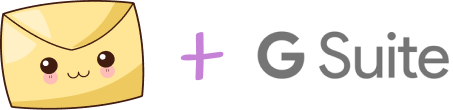
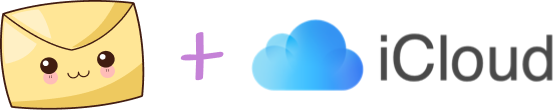
GitBook: [main] 13 pages and 12 assets modified

diff --git a/guides/connecting-gmail.md b/guides/connecting-gmail.md
@@ -12,7 +12,7 @@ description: >-
 
 To scan your mailbox for emails, you need to enable IMAP for your Gmail account.
 
-1. Go to your Gmail settings [**Forwarding and POP/IMAP**](https://mail.google.com/mail/#settings/fwdandpop) tab.
+1. Go to your Gmail settings [Forwarding and POP/IMAP](https://mail.google.com/mail/#settings/fwdandpop) tab.
 2. In the "IMAP access" section, select **Enable IMAP**.
 3. Click **Save Changes** \(don't forget this step ⚠\).
 
@@ -38,9 +38,15 @@ If you don't have 2-Step Verification enabled then the next step won't work!
 4. Enter "**Leave Me Alone**" and choose **GENERATE**.
 5. **Copy the App Password** \(the 16-character code in the yellow bar on your device\) - don't forget this bit ⚠.
 
+{% hint style="info" %}
+Don't forget to copy your app password after you click **Generate**!
+{% endhint %}
+
 ![](../.gitbook/assets/3-app-password.gif)
 
-You can now connect your Gmail to [Leave Me Alone](https://leavemealone.app) using your email address and the App Password you just generated.
+All done!
+
+You can now connect your Gmail to [Leave Me Alone](https://leavemealone.app/) using your email address and the App Password you just generated.
 
 ## Troubleshooting
 
@@ -49,4 +55,8 @@ You can now connect your Gmail to [Leave Me Alone](https://leavemealone.app) usi
 You must [enable 2-step verification](connecting-gmail.md#step-2-turn-on-2-step-verification) for this setting to be available for your Google account.
 
 ![](../.gitbook/assets/setting-not-found.png)
+
+### Still need help?
+
+Submit a request [here](https://leavemealone.app/feedback) or email us at [support@leavemealone.app](mailto:support@leavemealone.app).
 

diff --git a/guides/connecting-other-imap.md b/guides/connecting-other-imap.md
@@ -1,2 +1,35 @@
+---
+description: >-
+  Step-by-step guide for connecting any email account to Leave Me Alone. Takes
+  1-2 minutes to complete.
+---
+
 # Connecting any email account with IMAP
+
+![](../.gitbook/assets/lma+anything.png)
+
+## Step 1: Find your IMAP details
+
+To connect your account to Leave Me Alone you will need the host and port for your mail provider's IMAP server.
+
+You can usually find this by searching Google for "**&lt;your email account&gt; IMAP settings**".
+
+## Step 2: Connect your account
+
+1. Enter your email address and wait for us to select your account type \(or you can click the dropdown on the right of the field to change the account type\)
+2. Enter your password \(this is usually the password you use to sign in\)
+3. Enter the IMAP host and port you found in [Step 1](connecting-other-imap.md#step-1-find-your-imap-details)
+4. Click **Connect account**
+
+![](../.gitbook/assets/1-connect.gif)
+
+All done!
+
+You can now connect your any email account that supports IMAP to [Leave Me Alone](https://leavemealone.app/) using this method.
+
+## Troubleshooting
+
+### Still need help?
+
+Submit a request [here](https://leavemealone.app/feedback) or email us at [support@leavemealone.app](mailto:support@leavemealone.app).
 

diff --git a/guides/connecting-yahoo-mail.md b/guides/connecting-yahoo-mail.md
@@ -1,0 +1,34 @@
+---
+description: >-
+  Step-by-step guide for connecting your Yahoo Mail account to Leave Me Alone.
+  Takes 1 minute to complete.
+---
+
+# Connecting a Yahoo Mail account
+
+![](../.gitbook/assets/image%20%282%29.png)
+
+## Step 1: Generate an app password
+
+1. [Sign in and go to your Account security page](https://login.yahoo.com/account/security).
+2. Click **Generate app password**, or **Manage app passwords** if you already have app passwords for other services.
+3. In the popup select "**Other app**"
+4. Enter "**Leave Me Alone**" and click Generate.
+5. **Copy the App Password** - don't forget this bit ⚠.
+
+{% hint style="info" %}
+Don't forget to copy your app password after you click **Generate**!
+{% endhint %}
+
+![](../.gitbook/assets/1-generate-pass%20%281%29.gif)
+
+All done!
+
+You can now connect your Yahoo Mail to [Leave Me Alone](https://leavemealone.app/) using your email address and the App Password you just generated.
+
+## Troubleshooting
+
+### Still need help?
+
+Submit a request [here](https://leavemealone.app/feedback) or email us at [support@leavemealone.app](mailto:support@leavemealone.app).
+

diff --git a/guides/connecting-g-suite.md b/guides/connecting-g-suite.md
@@ -6,11 +6,11 @@ description: >-
 
 # Connecting a G Suite account
 
-![](../.gitbook/assets/image.png)
+![](../.gitbook/assets/image%20%283%29.png)
 
 ## Step 1: Manage app access control
 
-1. Sign in to your [Google Admin Console](https://admin.google.com/) and go to **Security**.
+1. [Sign in to your Google Admin Console](https://admin.google.com/) and go to **Security**.
 2. Scroll to the bottom and click **API Controls**.
 3. Under App access control click **MANAGE THIRD-PARTY APP ACCESS**.
 
@@ -36,6 +36,10 @@ Check the Client ID matches the one below.
 
 ![](../.gitbook/assets/2-configure.gif)
 
+All done!
+
+You can now sign-in to [Leave Me Alone](https://leavemealone.app/) using the Sign in with Google option.
+
 ## Troubleshooting
 
 ### App not found
@@ -50,5 +54,7 @@ If you see an error message "**App not found**" then you might be using the wron
 229643572503-d51b5c1infuudehgdlg1q0sigjella2h.apps.googleusercontent.com
 ```
 
+### Still need help?
 
+Submit a request [here](https://leavemealone.app/feedback) or email us at [support@leavemealone.app](mailto:support@leavemealone.app).
 

diff --git a/guides/connecting-aol-mail.md b/guides/connecting-aol-mail.md
@@ -1,0 +1,34 @@
+---
+description: >-
+  Step-by-step guide for connecting your AOL Mail account to Leave Me Alone.
+  Takes 1 minute to complete.
+---
+
+# Connecting an AOL Mail account
+
+![](../.gitbook/assets/image%20%284%29.png)
+
+## Step 1: Generate an app password
+
+1. [Sign in and go to the AOL Account security page](https://login.aol.com/account/security).
+2. Click **Generate app password** or **Manage app passwords**.
+3. In the popup select "**Other app**"
+4. Enter "**Leave Me Alone**" and click Generate.
+5. **Copy the App Password** - don't forget this bit ⚠.
+
+{% hint style="info" %}
+Don't forget to copy your app password after you click **Generate**!
+{% endhint %}
+
+![](../.gitbook/assets/1-generate-pass%20%282%29.gif)
+
+All done!
+
+You can now connect your AOL Mail to [Leave Me Alone](https://leavemealone.app/) using your email address and the App Password you just generated.
+
+## Troubleshooting
+
+### Still need help?
+
+Submit a request [here](https://leavemealone.app/feedback) or email us at [support@leavemealone.app](mailto:support@leavemealone.app).
+

diff --git a/guides/connecting-icloud.md b/guides/connecting-icloud.md
@@ -1,0 +1,33 @@
+---
+description: >-
+  Step-by-step guide for connecting your Apple iCloud account to Leave Me Alone.
+  Takes 1 minute to complete.
+---
+
+# Connecting an iCloud Mail account
+
+![](../.gitbook/assets/image.png)
+
+## Step 1: Generate an app-specific password
+
+1. [Sign in to your Apple ID account page](https://appleid.apple.com/account/home).
+2. In the Security section, click **Generate Password...** below App-Specific Passwords.
+3. Enter "**Leave Me Alone**" and click Create.
+4. **Copy the App Password** - don't forget this bit ⚠
+
+{% hint style="info" %}
+Don't forget to copy your app password after you click **Create**!
+{% endhint %}
+
+![](../.gitbook/assets/1-generate-app-password.gif)
+
+All done!
+
+You can now connect your iCloud to [Leave Me Alone](https://leavemealone.app/) using your email address and the App Password you just generated.
+
+## Troubleshooting
+
+### Still need help?
+
+Submit a request [here](https://leavemealone.app/feedback) or email us at [support@leavemealone.app](mailto:support@leavemealone.app).
+

diff --git a/guides/connecting-fastmail.md b/guides/connecting-fastmail.md
@@ -1,0 +1,30 @@
+---
+description: >-
+  Step-by-step guide for connecting your Fastmail account to Leave Me Alone.
+  Takes 1 minute to complete.
+---
+
+# Connecting a Fastmail account
+
+![](../.gitbook/assets/image%20%281%29.png)
+
+## Step 1: Generate an app password
+
+1. Open the [Password & Security → App Passwords](https://www.fastmail.com/go/settings/security/devicekeys) screen.
+2. Enter your password and click Unlock, then click **New App Password**.
+3. Select **Custom...** name and enter "**Leave Me Alone**".
+4. Select **Mail \(IMAP/POP/SMTP\)** access ****and click Generate Password.
+5. **Copy the App Password** - don't forget this bit ⚠.
+
+![](../.gitbook/assets/1-generate-pass.gif)
+
+All done!
+
+You can now connect your Fastmail account to [Leave Me Alone](https://leavemealone.app/) using your email address and the App Password you just generated.
+
+## Troubleshooting
+
+### Still need help?
+
+Submit a request [here](https://leavemealone.app/feedback) or email us at [support@leavemealone.app](mailto:support@leavemealone.app).
+

diff --git a/problems/faq.md b/problems/faq.md
@@ -1,2 +1,24 @@
 # FAQ
 
+## How can you tell which emails are subscriptions?
+
+We never read the content of any of your emails but we do have access to some metadata - information about an email which you don't usually see.
+
+This metadata tells us if the email has an unsubscribe link or instructions on how to unsubscribe, if it does then we show it to you in Leave Me Alone for you to unsubscribe from. 
+
+## I accidentally unsubscribed from something, how can I re-subscribe?
+
+Sorry, we can't subscribe you to a mailing list you have unsubscribed from. You'd need to visit the website for that mailing list and subscribe again manually.
+
+## How can I delete my account?
+
+{% hint style="danger" %}
+**WARNING:** This is permanent and cannot be undone!
+{% endhint %}
+
+You can deactivate your account [here](https://leavemealone.app/app/danger/deactivate). This will delete all of your data, revoke your API keys, and sign you out.
+
+You will still be able to create an account again to clean your inbox in the future.
+
+
+

diff --git a/SUMMARY.md b/SUMMARY.md
@@ -6,7 +6,12 @@
 ## Step-by-step guides <a id="guides"></a>
 
 * [Connecting a Gmail account](guides/connecting-gmail.md)
+* [Connecting an Outlook account](guides/connecting-outlook.md)
 * [Connecting a G Suite account](guides/connecting-g-suite.md)
+* [Connecting an iCloud Mail account](guides/connecting-icloud.md)
+* [Connecting a Yahoo Mail account](guides/connecting-yahoo-mail.md)
+* [Connecting an AOL Mail account](guides/connecting-aol-mail.md)
+* [Connecting a Fastmail account](guides/connecting-fastmail.md)
 * [Connecting any email account with IMAP](guides/connecting-other-imap.md)
 
 ## Having problems? <a id="problems"></a>

diff --git a/problems/troubleshooting.md b/problems/troubleshooting.md
@@ -1,2 +1,8 @@
 # Troubleshooting
 
+## I'm not seeing any emails in Leave Me Alone
+
+Sometimes the scan can get stuck. You can restart it by visiting your [profile settings here](https://leavemealone.app/app/profile), scrolling to the bottom, and clicking the button "Clear Local Emails". Now when you go back to the mail list page it should restart the scan and hopefully it work this time!
+
+## 
+

diff --git a/guides/connecting-outlook.md b/guides/connecting-outlook.md
@@ -1,0 +1,8 @@
+---
+description: >-
+  Step-by-step guide for connecting your Outlook, Hotmail or Microsoft account
+  to Leave Me Alone. Takes 1 minute to complete.
+---
+
+# Connecting an Outlook account
+
